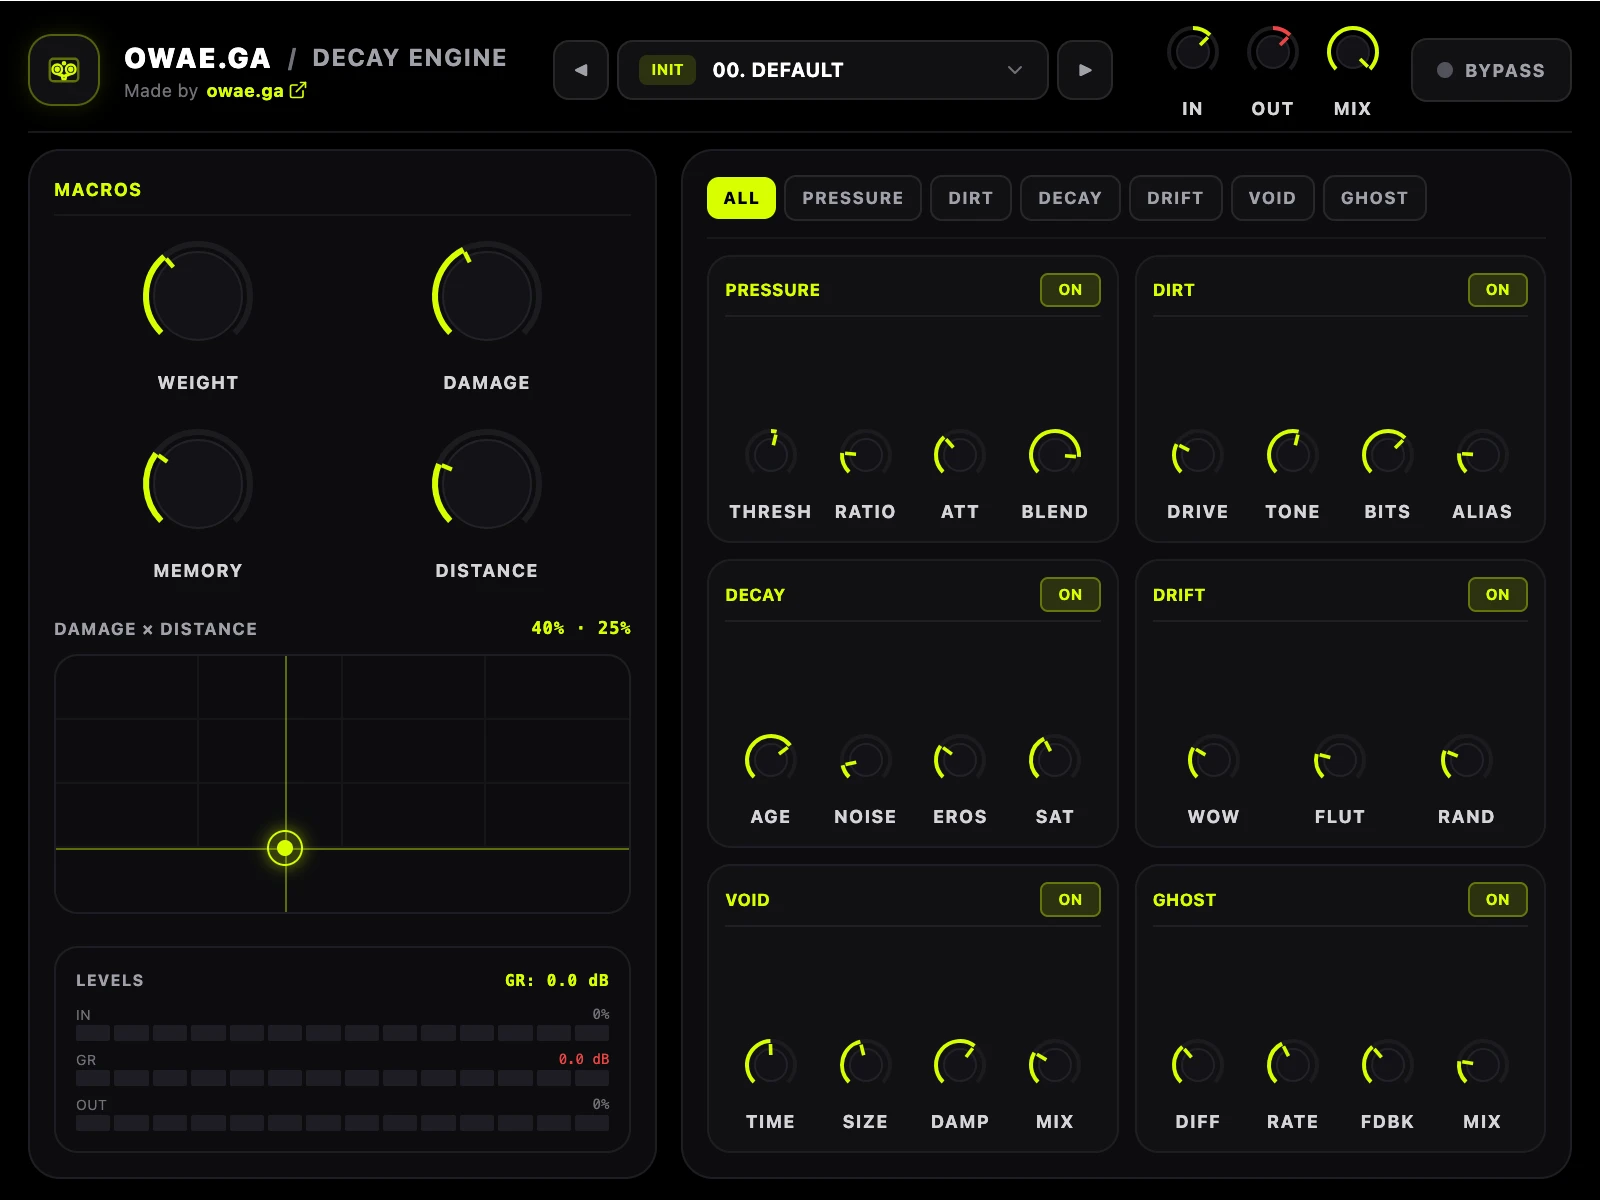
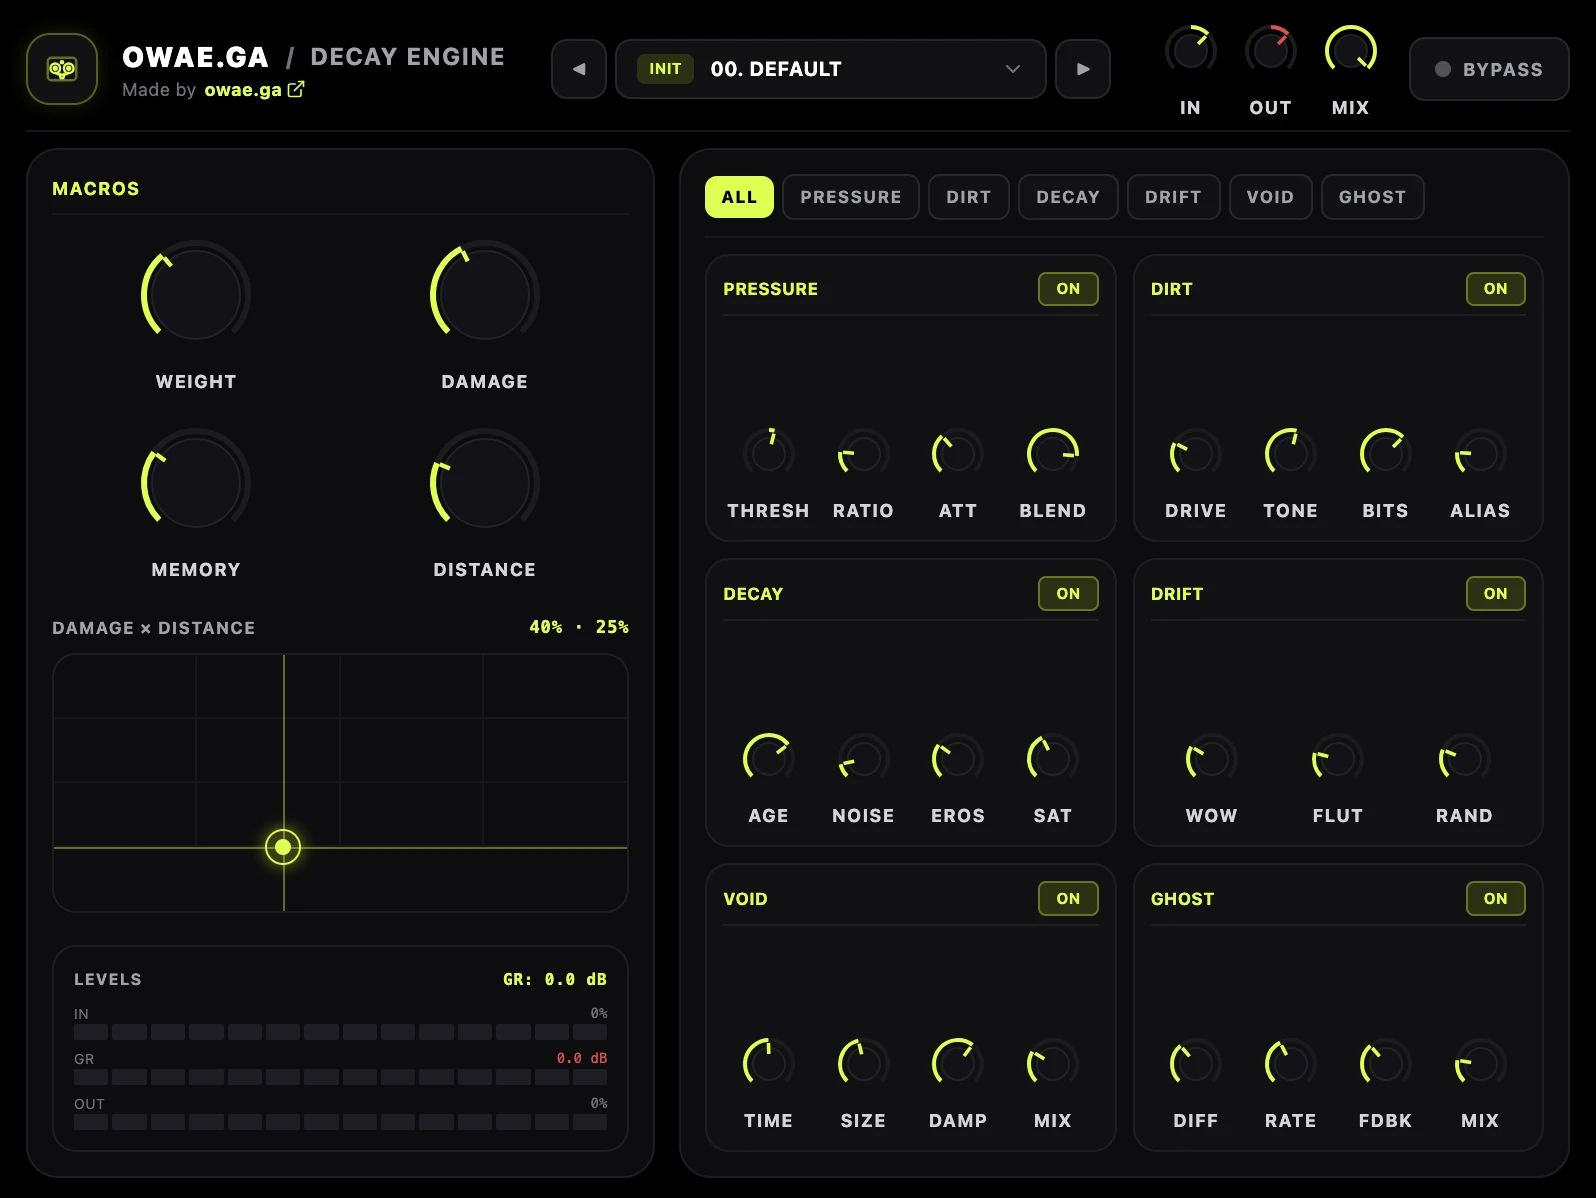
Update Decay Engine image and simplify preview

diff --git a/app/DecayEnginePreview.tsx b/app/DecayEnginePreview.tsx
@@ -17,13 +17,12 @@ export default function DecayEnginePreview() {
         onClick={() => dialogRef.current?.showModal()}
       >
         <Image
-          src="/decay-engine-interface.webp"
-          width={1600}
-          height={1200}
+          src="/decay-engine-interface.webp?v=044ce44ee95b"
+          width={1596}
+          height={1198}
           alt="DECAY ENGINE interface showing Weight, Damage, Memory, and Distance macros alongside Pressure, Dirt, Decay, Drift, Void, and Ghost processing controls."
           unoptimized
         />
-        <span>VIEW INTERFACE / ENLARGE</span>
       </button>
       <figcaption>DECAY ENGINE / V1 / PLUGIN INTERFACE</figcaption>
       <dialog
@@ -38,13 +37,13 @@ export default function DecayEnginePreview() {
           <button type="submit" autoFocus>Close preview</button>
         </form>
         <Image
-          src="/decay-engine-interface.webp"
-          width={1600}
-          height={1200}
+          src="/decay-engine-interface.webp?v=044ce44ee95b"
+          width={1596}
+          height={1198}
           alt="Full DECAY ENGINE v1 plugin interface."
           unoptimized
         />
-        <a href="/decay-engine-interface.webp" target="_blank" rel="noreferrer">Open full-size image</a>
+        <a href="/decay-engine-interface.webp?v=044ce44ee95b" target="_blank" rel="noreferrer">Open full-size image</a>
       </dialog>
     </figure>
   );

diff --git a/app/DecayEngine.module.css b/app/DecayEngine.module.css
@@ -13,7 +13,6 @@
 .preview { max-width: 1120px; margin: 48px auto 0; }
 .previewButton { position: relative; display: block; width: 100%; padding: 0; border: 1px solid var(--line); background: #000; color: var(--ink); cursor: zoom-in; }
 .previewButton img { display: block; width: 100%; height: auto; }
-.previewButton > span { position: absolute; right: 12px; bottom: 12px; padding: 10px 12px; background: var(--acid); font-size: 10px; font-weight: 800; letter-spacing: .1em; }
 .preview figcaption { margin-top: 12px; color: var(--muted); font-size: 10px; letter-spacing: .14em; }
 .previewDialog { width: min(1700px, calc(100vw - 24px)); max-width: calc(100vw - 24px); max-height: calc(100dvh - 24px); margin: auto; padding: 16px; border: 1px solid var(--line); background: #080808; color: var(--paper); overflow: auto; }
 .previewDialog::backdrop { background: rgba(0,0,0,.9); }
@@ -46,5 +45,4 @@
   .processor h3 { font-size: clamp(20px,6vw,32px); }
   .description { font-size: 16px; }
   .preview { margin-top: 32px; }
-  .previewButton > span { position: static; display: block; padding: 14px; }
 }

diff --git a/app/layout.tsx b/app/layout.tsx
@@ -77,7 +77,7 @@ const structuredData = {
       "@id": `${siteUrl}/#decay-engine`,
       name: "DECAY ENGINE",
       url: `${siteUrl}/#decay-engine`,
-      screenshot: `${siteUrl}/decay-engine-interface.webp`,
+      screenshot: `${siteUrl}/decay-engine-interface.webp?v=044ce44ee95b`,
       downloadUrl: "https://drive.google.com/uc?export=download&id=1Gkpihp_Ts-OL8Fplzio_opn5_t0zv803",
       softwareVersion: "1.0",
       applicationCategory: "MultimediaApplication",
